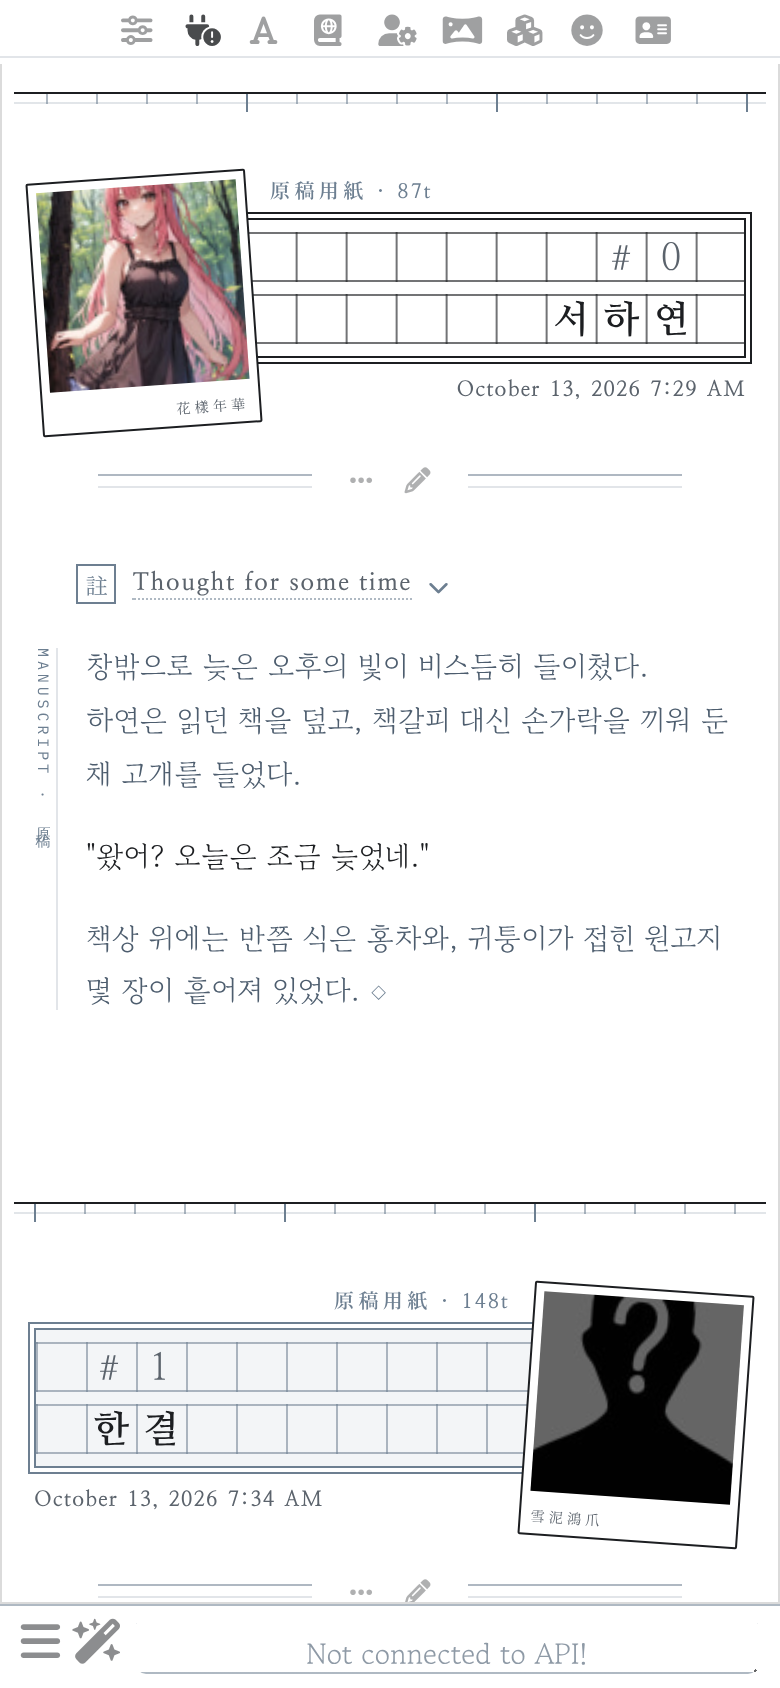
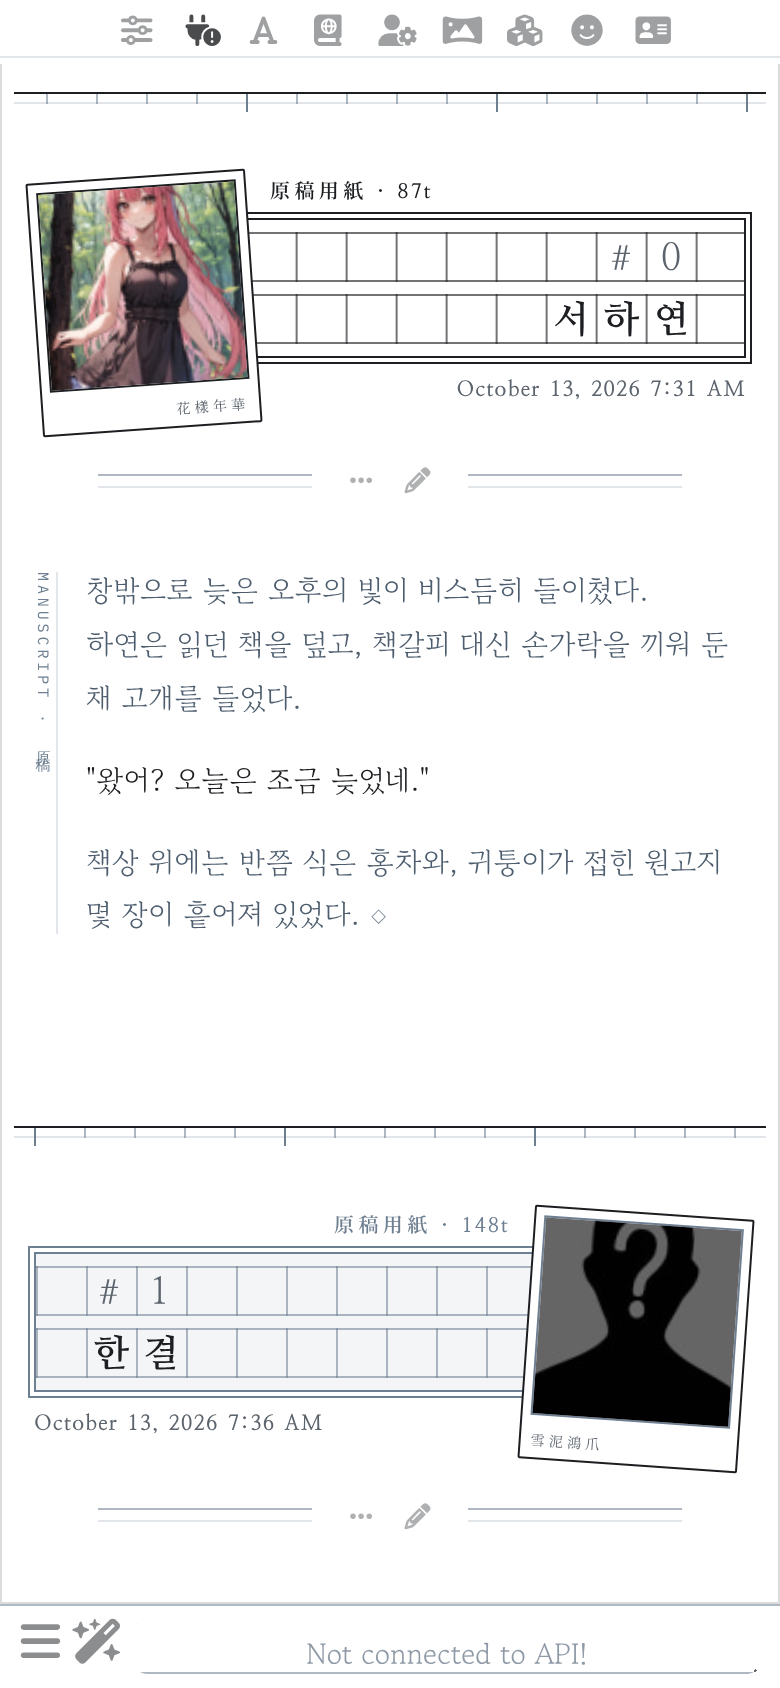
Wongoji: outline polaroid photo, ink label for character
The photo inside the polaroid gets a 1px line in the band colour, and
the 原稿用紙 · token label follows the band colour too: ink for the
character, blue-gray for the user.

Claude-Session: https://claude.ai/code/session_01VxNZVdN99GR1yFwUVAN4mT

diff --git a/src/wongoji.css b/src/wongoji.css
@@ -306,9 +306,10 @@ body {
 #chat .mes .avatar img {
     width: var(--wg-photo);
     height: var(--wg-photo);
+    box-sizing: border-box;
     border-radius: 0;
-    border: 0;
-    box-shadow: inset 0 0 0 1px rgba(0, 0, 0, 0.06);
+    border: 1px solid var(--wg-band-frame);
+    box-shadow: none;
     object-fit: cover;
     filter: var(--wg-photo-filter);
     transition: filter var(--animation-duration-2x) ease;
@@ -428,7 +429,8 @@ body.no-mesIDDisplay #chat .mes::before {
     font-weight: 700;
     font-size: 10px;
     letter-spacing: 0.12em;
-    color: var(--wg-print);
+    /* 캐릭터는 먹색, 유저는 청회색 — 원고지 선과 같은 색 */
+    color: var(--wg-band-frame);
     opacity: 1;
     white-space: nowrap;
     z-index: 1;
